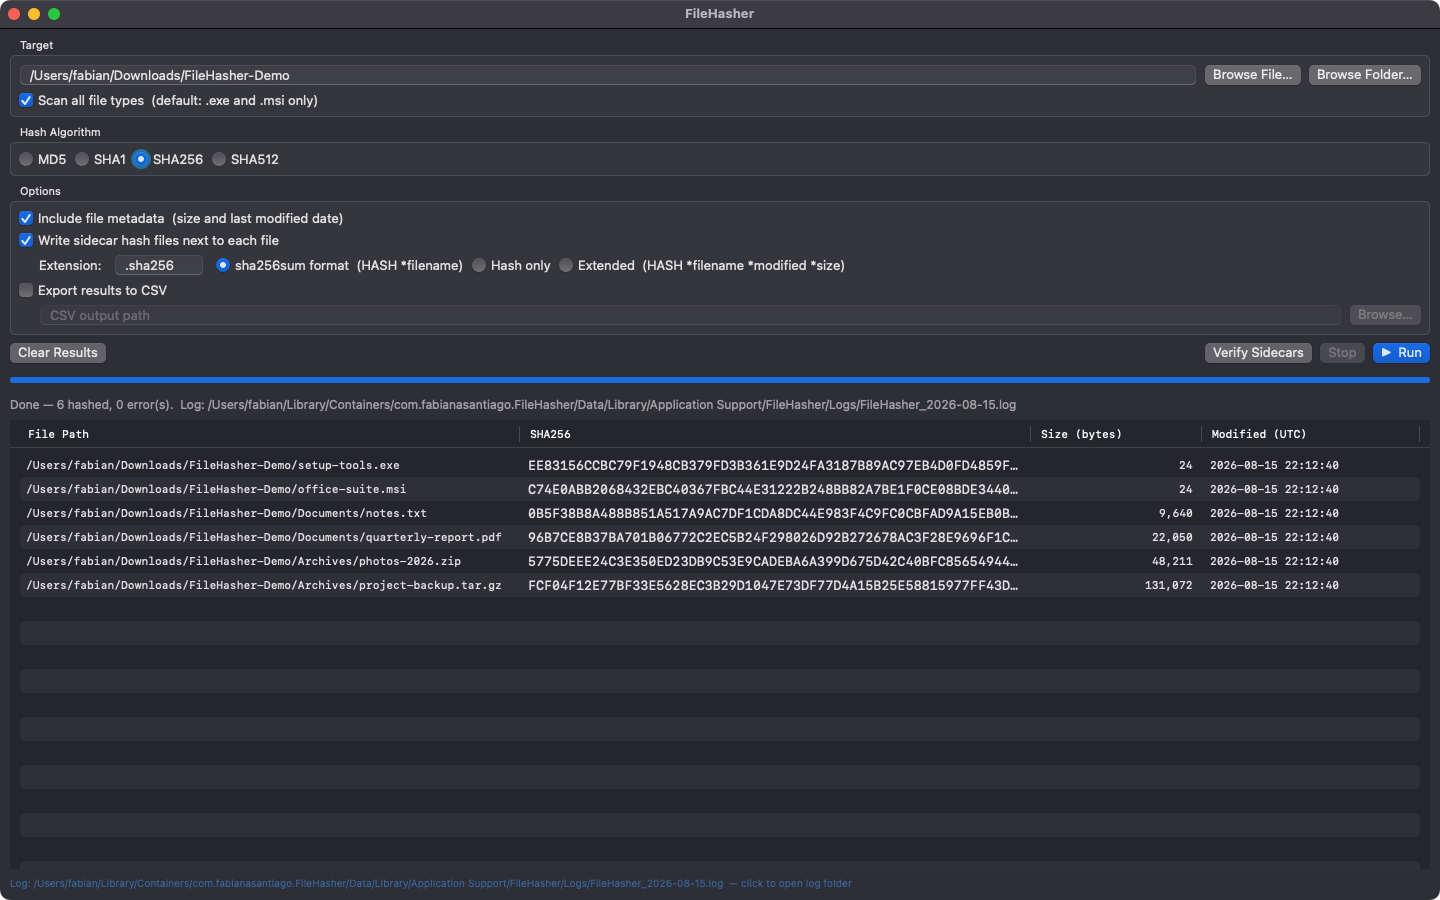
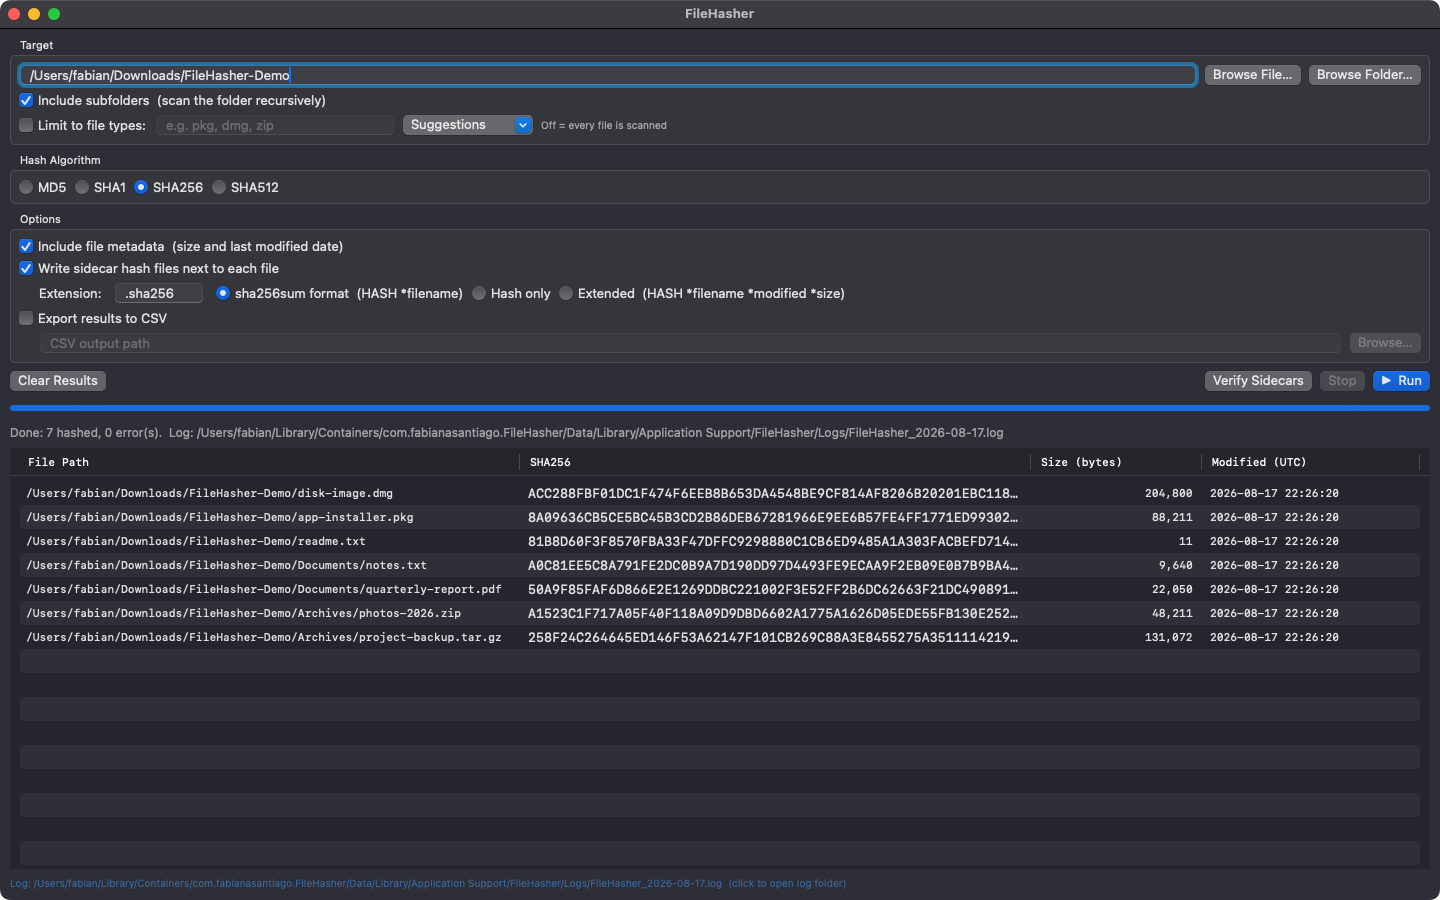
App Review reply notes + refreshed screenshots and listing for build 2
Seven-point Guideline 2.1 response ready to paste into Resolution
Center; screenshots recaptured with the new scan options (pkg/dmg demo
tree, subfolders included); listing description updated for opt-in
recursion and the file-type limit.

Changed region(s): [[0.0, 0.0622, 1.0, 0.7156], [0.5, 0.9644, 0.5938, 0.9956]]

diff --git a/docs/APP-REVIEW-NOTES.md b/docs/APP-REVIEW-NOTES.md
@@ -1,0 +1,76 @@
+# App Review reply (Guideline 2.1, Information Needed)
+
+Paste the reply below into the Resolution Center thread, attach
+`filehasher-review-demo.mov`, and also copy items 2 through 7 into
+App Review Information -> Notes for future submissions.
+
+Context: this reply accompanies build 2 (version 1.0.0), which refines the
+folder-scan options (all files scanned by default, opt-in subfolder recursion,
+optional user-defined file-type limit). Screenshots were updated to match.
+
+---
+
+Hello, thank you for the review. Answers to each item:
+
+1. SCREEN RECORDING
+A screen recording is attached. It was captured on a physical Mac
+(Mac mini 2018, Intel) running macOS Sequoia 15.7.9, and begins with
+launching the app. It shows the typical user flow through the core
+features: selecting a folder with the standard macOS open panel, enabling
+options, computing SHA-256 hashes of the folder's files, writing sidecar
+checksum files, and then verifying those sidecars (all results OK).
+The app has no account registration, login, or account deletion; no paid
+content, purchases, or subscriptions; no user-generated content; and it
+requests no access to sensitive data or device capabilities. The only
+permission interaction is the standard macOS file-selection dialog
+(shown in the recording), through which the user explicitly chooses what
+the sandboxed app may read.
+
+2. DEVICES AND OPERATING SYSTEMS TESTED
+Mac mini (2018), Model Identifier Macmini8,1, 6-core Intel Core i7,
+running macOS Sequoia 15.7.9. This is the newest macOS available for
+Intel hardware, which the app targets (the binary is x86_64 and runs on
+Apple Silicon via Rosetta 2; minimum system version is macOS 13). The
+hashing engine is additionally covered by an automated test suite (16
+unit tests, including known hash vectors for all four algorithms) that
+runs on the same platform.
+
+3. PURPOSE AND TARGET AUDIENCE
+FileHasher computes cryptographic hashes (MD5, SHA-1, SHA-256, SHA-512)
+of files and folders the user selects, writes standard sidecar checksum
+files next to them (including the sha256sum line format used by
+command-line tools), verifies those sidecars later, and exports results
+to CSV. The problem it solves: proving that a download, installer, disk
+image, backup, or archive has not changed since it was hashed, or that
+it matches a checksum published by a vendor. Target audience: anyone who
+verifies downloaded software or disk images, plus IT, QA, and archival
+users who audit file sets for integrity. Its value is that verification
+is local, private (no network access at all), and interoperable with
+standard checksum tooling on other platforms.
+
+4. SETUP AND ACCESS INSTRUCTIONS
+No setup, login, credentials, or sample files are required. To exercise
+the main features: launch the app, click "Browse Folder…", choose any
+folder containing files (any file types work, for example a folder of
+documents), and click Run to hash them. To exercise verification, check
+"Write sidecar hash files next to each file" before running, then click
+"Verify Sidecars" after the run completes; every file should report OK.
+Optional features: "Include subfolders" scans recursively, "Limit to
+file types" restricts a scan to a comma-separated extension list, and
+"Export results to CSV" saves a spreadsheet via the standard save panel.
+
+5. EXTERNAL SERVICES
+None. The app uses no external services, tools, or platforms: no data
+providers, no authentication services, no payment processors, no AI
+services, no analytics or crash reporting SDKs. It makes no network
+connections of any kind. Hashing uses Apple's CryptoKit framework, and
+all processing happens locally inside the macOS App Sandbox.
+
+6. REGIONAL DIFFERENCES
+None. The app functions identically in all regions and territories, with
+no region-dependent features or content.
+
+7. REGULATED INDUSTRIES / PROTECTED MATERIAL
+Not applicable. The app does not operate in a regulated industry and
+contains no third-party or protected material. All code and artwork are
+the developer's own.

diff --git a/docs/APP-STORE-LISTING.md b/docs/APP-STORE-LISTING.md
@@ -25,7 +25,8 @@ Primary: **Utilities** · Secondary (optional): **Developer Tools**
 FileHasher computes cryptographic hashes for your files and folders, writes standard sidecar hash files next to them, and verifies everything later, so you can prove a download, an installer, a backup, or an archive hasn't changed since you hashed it.
 
 HASH
-• Hash a single file or an entire folder tree, recursively
+• Hash a single file or a folder of files, with optional subfolder recursion
+• Optionally limit a folder scan to file types you choose (pkg, dmg, zip, and more)
 • Four algorithms: MD5, SHA-1, SHA-256, and SHA-512
 • Drag and drop a file or folder straight onto the window
 • Optional size and last-modified metadata alongside every hash
@@ -88,7 +89,7 @@ FileHasher for macOS shares its lineage with FileHasher for Windows; sidecar fil
 
 | File | Shows |
 | --- | --- |
-| `shot1-hash-1440x900.png` | Recursive folder hash with metadata, completed run |
+| `shot1-hash-1440x900.png` | Folder hash with subfolders included and metadata, completed run |
 | `shot2-verify-ok-1440x900.png` | One-pass verification, all green |
 | `shot3-verify-mismatch-1440x900.png` | Tamper detection; one file flagged MISMATCH |
 
